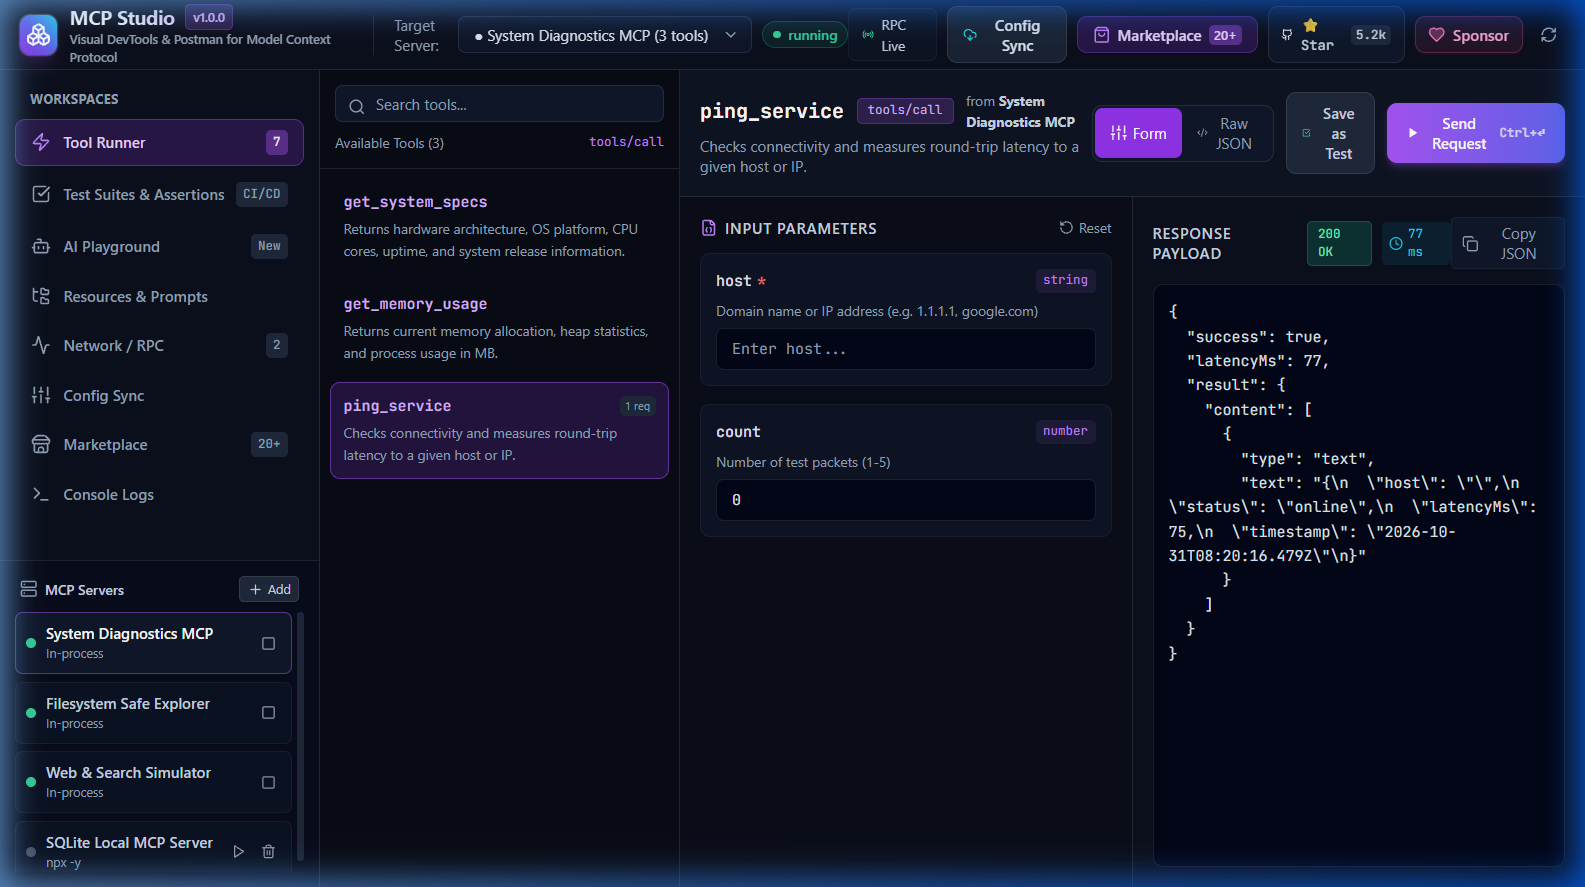
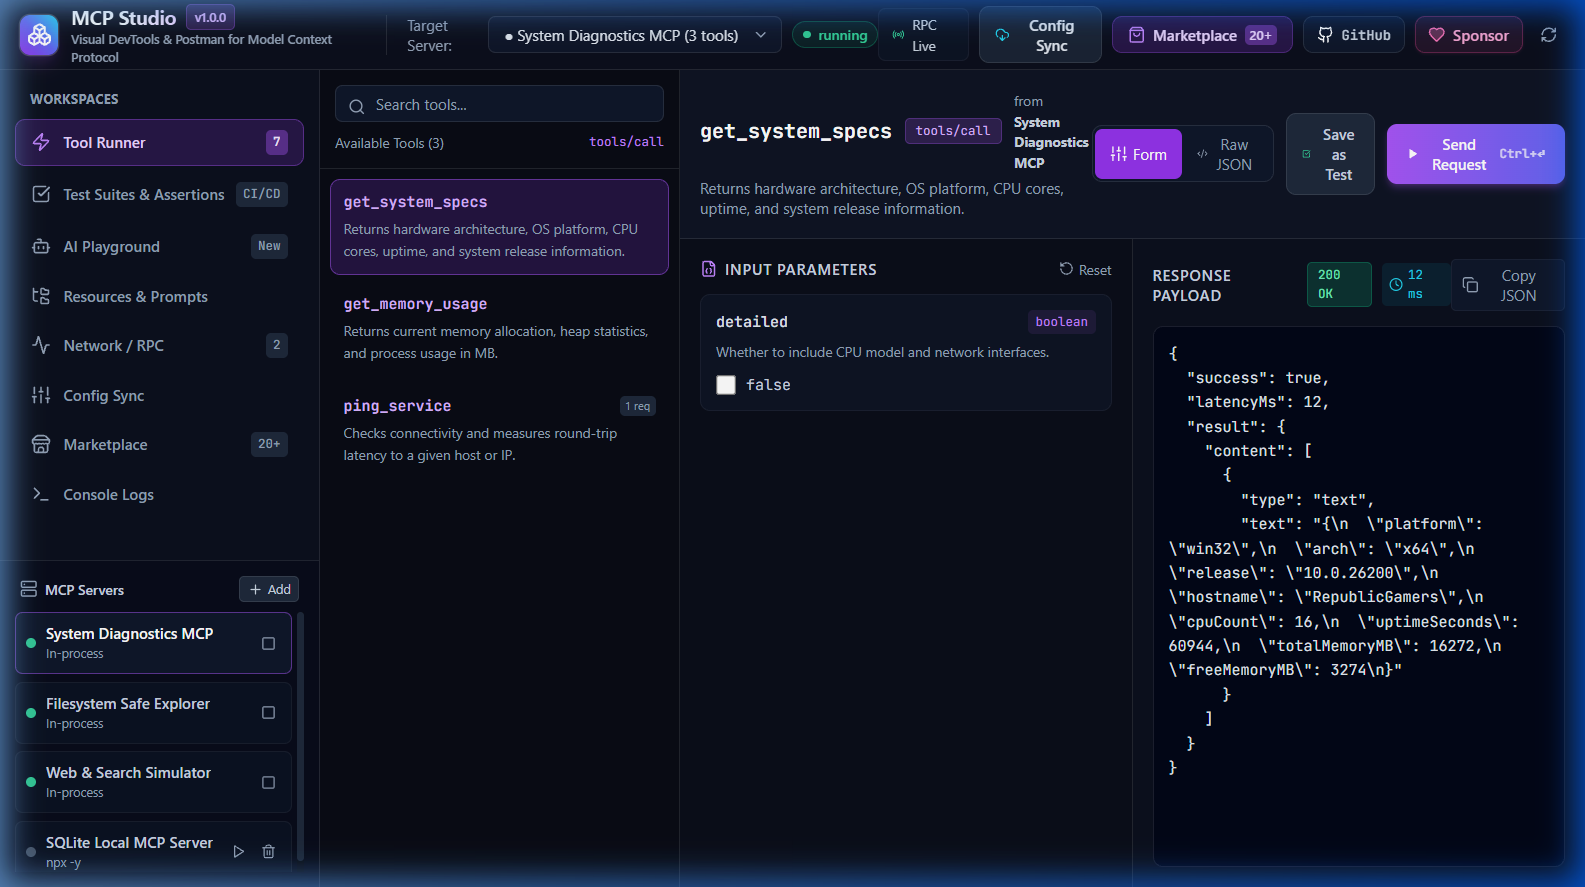
fix(ui): remove hardcoded star count from Navbar and update screenshots

diff --git a/src/components/Navbar.jsx b/src/components/Navbar.jsx
@@ -109,7 +109,7 @@ export default function Navbar({
           <span className="text-[10px] bg-purple-500/40 px-1 rounded text-purple-200">20+</span>
         </button>
 
-        {/* GitHub Stars Button */}
+        {/* GitHub Link */}
         <a
           href="https://github.com/Yaromir-Anokhin/mcp-studio"
           target="_blank"
@@ -117,8 +117,7 @@ export default function Navbar({
           className="flex items-center space-x-1.5 px-2.5 py-1.5 rounded-lg bg-slate-900 hover:bg-slate-800 text-xs font-medium text-slate-300 border border-white/10 hover:border-white/20 transition-all"
         >
           <Github className="w-3.5 h-3.5 text-white" />
-          <span className="hidden md:inline font-mono text-[11px]">⭐ Star</span>
-          <span className="text-[10px] bg-slate-800 px-1 rounded text-slate-300 font-mono">5.2k</span>
+          <span className="font-mono text-[11px]">GitHub</span>
         </a>
 
         {/* Sponsor Heart Button */}
